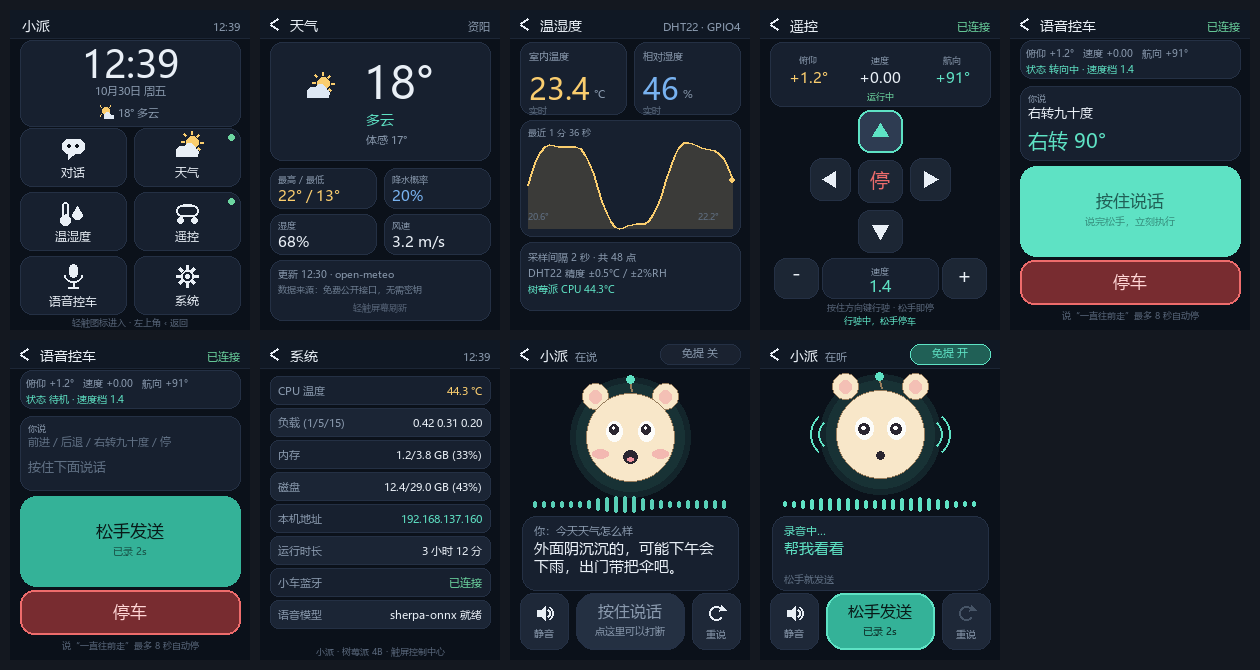
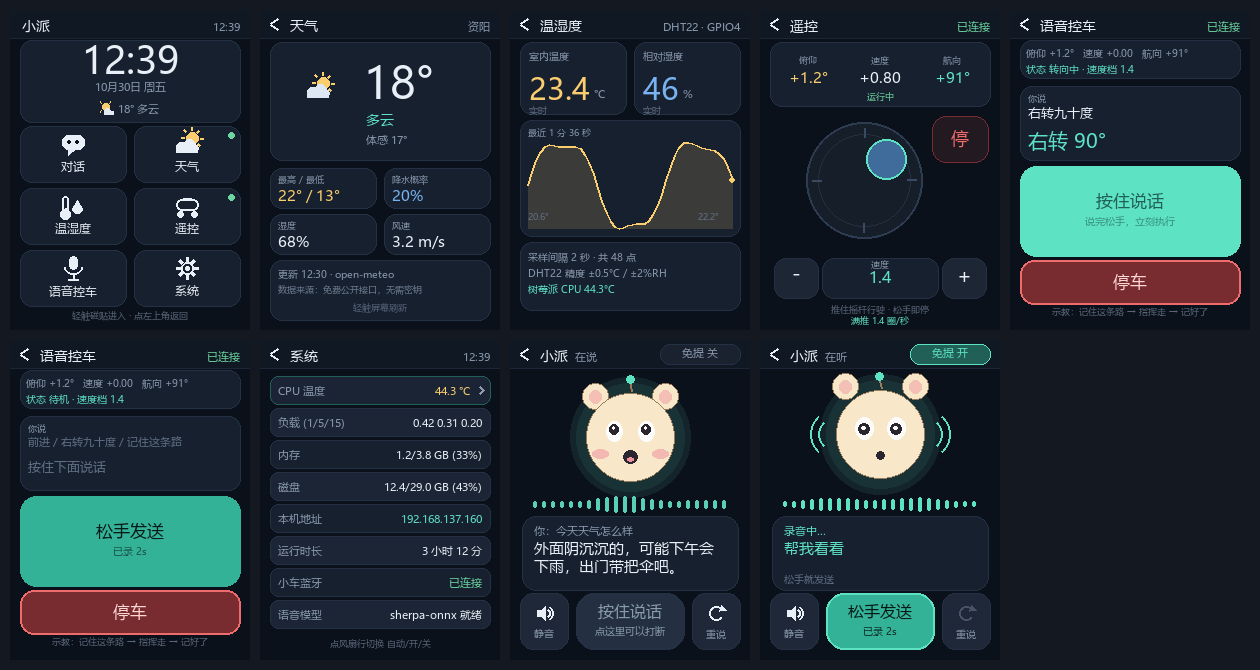
触摸屏遥控改成虚拟摇杆，和手机 APP 走同一套协议
问题：触摸屏和手机控同一条车，手感完全不同。
根因是两条路径的语义不同 —— 触摸屏走 [go]/[turn]（发一次一直跑、
转向是航向闭环转 90° 自己收手），手机走 [joystick]（摇杆模拟量、
20Hz 连续发、松手归零）。而且这块屏是单点触摸，十字键连
「上+左」都按不出来，天生做不出边走边转。

改法：把十字键换成虚拟摇杆，直接下发 [joystick,0,LV,0,RH]，
和手机 APP 一模一样的包，手感天然一致。

hubui.py
- 新增 JOY_C/JOY_R/JOY_KNOB/JOY_MAX、joy_norm()（超界按圆周投影，
  斜推不会得到 1.41 倍幅度）
- render_drive 画底盘/刻度/摇杆头，停车键挪到右上方
  （注意命名 BTN_HALT，BTN_STOP 已被语音页占用）
- hit_drive 改成判断圆心距离

hub.py
- DriveApp 重写：推多远离中心多快、一个拇指同时给速度和转向、
  松手先发一包回中（触发车端「松杆」清三级积分）再发 [stop]
- 拖动时指令变了立刻发（限 50ms），按住不动按 10Hz 续命，
  喂住车端 500ms 摇杆看门狗
- 连续推 12 秒自动停（抬起事件丢失的兜底）
- 转向符号可配：car.json 的 joy_turn_sign，默认 1.0，
  实车推右却左转就改 -1，离开页面再进即生效，不用重烧
- 触摸事件分发处把按下坐标挂到 app.down_xy，摇杆按在边缘能立刻给大量

其他
- car.json / car.py 增加 joy_turn_sign
- README 遥控页说明、协议说明.md 的 [joystick] 行同步更新
- preview_hub.py 的 drive 预览补上 jx/jy/joy

已部署到树莓派 ~/hub.py ~/hubui.py（备份 .bak_joy）并重启 hub.service

diff --git a/ai助手屏幕/pi_files/hub.py b/ai助手屏幕/pi_files/hub.py
@@ -1454,70 +1454,146 @@ class EnvApp(App):
 
 # ================================================================ 遥控页
 class DriveApp(App):
+    """遥控页：虚拟摇杆，下发的是和手机 APP 一模一样的 [joystick] 包。
+
+    为什么不用 [go]/[turn]：那套是给语音和示教用的「精确语义」——
+    [turn,90] 是航向闭环、转到位自己收手，天生按不出「按住一直转、边走边转」。
+    手机上那种手感来自摇杆：LV 给速度、RH 给差速，一个拇指同时给两个量，
+    松手一起归零。这里复制同一套协议，所以两边行为一致，不用再维护第二套手感。
+
+    另外这块屏是单点触摸，十字键连「上+左」都按不出来，摇杆是唯一能
+    在一个触点里同时表达速度与转向的形状。
+    """
+
     key = "drive"
     title = "遥控"
+
+    JOY_DEAD = 0.10        # 摇杆死区：归一化幅度小于它当中立，滤掉手指微抖
+    JOY_HZ = 10.0          # 下发频率。必须持续发 —— 车端摇杆模式看门狗是 500ms，
+                           # 手指按住不动（没有 move 事件）时也要靠这条定时包喂住
+    HOLD_MAX = 12.0        # 连续推的兜底：万一抬起事件丢了，车不能一直跑
 
     def __init__(self, hub):
         super().__init__(hub)
         self.press = None
         self.speed = 1.4
+        self.turn_sign = 1.0
         self.hint = ""
         self.t_press = 0.0
+        self.jx = 0.0
+        self.jy = 0.0
+        self.joy_on = False
+        self._t_send = 0.0
+        self._last = (0, 0)          # 上一次真正发出去的 (LV, RH)，用来判重
+        self.down_xy = None
 
     def enter(self):
         self.hub.cars.ensure()
-        self.speed = float(self.hub.cars.cfg.get("speed", 1.4))
+        cfg = self.hub.cars.cfg or {}
+        self.speed = float(cfg.get("speed", 1.4))
+        # 转向符号单独可调，实车标定用，不用改代码也不用重烧：
+        #   第一次推右，如果车往左转，把 car.json 里的 "joy_turn_sign" 改成 -1，
+        #   离开遥控页再点回来就生效（enter() 会重读配置）。
+        self.turn_sign = float(cfg.get("joy_turn_sign", 1.0))
         self.hint = ""
+        self.jx = self.jy = 0.0
+        self.joy_on = False
 
     def leave(self):
-        self.hub.cars.send("[stop]")
+        self._halt("")
+
+    def _halt(self, hint=""):
+        self.joy_on = False
+        self.jx = self.jy = 0.0
         self.press = None
-        self.hint = ""
+        try:
+            self.hub.cars.send("[joystick,0,0,0,0]")   # 先发一包回中：触发车端
+                                                       # 「松杆」边沿，它会顺手清掉三个积分
+            self.hub.cars.send("[stop]")
+        except Exception:                              # noqa: BLE001
+            pass
+        if hint:
+            self.hint = hint
+
+    def _dead(self):
+        if abs(self.jx) < self.JOY_DEAD:
+            self.jx = 0.0
+        if abs(self.jy) < self.JOY_DEAD:
+            self.jy = 0.0
+
+    def _cmd(self):
+        """当前摇杆量 → 车端协议的两个整数。
+
+        车端把 LV 除以 25 当目标速度（圈/秒）、把 RH 除以 5 当差速目标，
+        所以这里乘回去：满推 = 速度档的值，左右满推 = ±100。
+        """
+        lv = int(round(-self.jy * self.speed * 25.0))
+        rh = int(round(self.jx * 100.0 * self.turn_sign))
+        return max(-100, min(100, lv)), max(-100, min(100, rh))
+
+    def _emit(self, force=False, min_gap=0.0):
+        now = time.monotonic()
+        if not force and now - self._t_send < min_gap:
+            return
+        self._t_send = now
+        lv, rh = self._cmd()
+        self._last = (lv, rh)
+        self.hub.cars.send(f"[joystick,0,{lv},0,{rh}]")
+
+    def on_move(self, x, y):
+        if not self.joy_on:
+            return
+        self.jx, self.jy = hubui.joy_norm(x, y)
+        self._dead()
+        # 拖动时只要指令变了就立刻发（最快 20Hz），否则摇杆会有一拍黏滞感；
+        # 但发得太密会挤占 9600 波特的带宽（遥测还要 10Hz），所以限 50ms 一次。
+        if self._cmd() != self._last:
+            self._emit(min_gap=0.05)
 
     def tick(self, now):
-        """按住行驶的超时兜底：万一抬起事件丢了（触摸屏偶发），车不能一直跑"""
-        if self.press in ("up", "down") and now - self.t_press > 6.0:
-            self.hub.cars.send("[stop]")
-            self.press = None
-            self.hint = "连续走了 6 秒，已自动停车"
-
-    def hit(self, x, y):
-        return hubui.hit_drive(x, y)
+        if not self.joy_on:
+            return
+        if now - self.t_press > self.HOLD_MAX:
+            self._halt(f"连续推了 {self.HOLD_MAX:.0f} 秒，已自动停车，需重新推")
+            return
+        # 手指按住不动时没有 move 事件，仍要按 10Hz 续命 ——
+        # 车端摇杆看门狗是 500ms，断包就停车
+        self._emit(min_gap=1.0 / self.JOY_HZ)
 
     def on_down(self, region):
         self.press = region
         self.t_press = time.monotonic()
         cars = self.hub.cars
-        if cars.link is None:
-            self.hint = "车没连上，先给车上电"
+
+        if region == "stop":
+            self._halt("已停车")
             return
-        if region == "up":
-            cars.send(f"[go,{self.speed:.2f},0]")
-            self.hint = "行驶中 · 松手停车"
-        elif region == "down":
-            cars.send(f"[go,{-self.speed:.2f},0]")
-            self.hint = "倒车中 · 松手停车"
-        elif region == "left":
-            cars.send("[turn,-90]")
-            self.hint = "左转 90° · 车自己转到位"
-        elif region == "right":
-            cars.send("[turn,90]")
-            self.hint = "右转 90° · 车自己转到位"
-        elif region == "stop":
-            cars.send("[stop]")
-            self.hint = "已停车"
-        elif region in ("faster", "slower"):
+        if region in ("faster", "slower"):
             step = float(cars.cfg.get("speed_step", 0.4))
             lo = float(cars.cfg.get("speed_min", 0.5))
             hi = float(cars.cfg.get("speed_max", 3.2))
             self.speed = max(lo, min(hi, self.speed + (step if region == "faster" else -step)))
-            self.hint = f"速度 {self.speed:.1f}"
+            self.hint = f"满推 {self.speed:.1f} 圈/秒"
+            if self.joy_on:
+                self._emit(force=True)
+            return
+        if cars.link is None:
+            self.hint = "车没连上，先给车上电"
+            return
+        if region == "joy":
+            self.joy_on = True
+            xy = self.down_xy or hubui.JOY_C
+            self.jx, self.jy = hubui.joy_norm(xy[0], xy[1])
+            self._dead()
+            self._emit(force=True)
+            self.hint = "推住行驶 · 松手即停"
+
+    def hit(self, x, y):
+        return hubui.hit_drive(x, y)
 
     def on_up(self, region, x, y, dur):
-        self.press = None
-        if region in ("up", "down"):
-            self.hub.cars.send("[stop]")
-            self.hint = "已停"
+        if self.joy_on:
+            self._halt("已停")
 
     def _tel(self):
         return self.hub.cars.snap()
@@ -1530,13 +1606,15 @@ class DriveApp(App):
             car_lost=cars.status == "lost",
             angle=f"{s['angle']:+.1f}°", speed=f"{s['speed']:+.2f}",
             yaw=f"{s['yaw']:+.0f}°", flags=s.get("flags", 0),
-            spd=f"{self.speed:.1f}", press=self.press, hint=self.hint))
+            spd=f"{self.speed:.1f}", press=self.press, hint=self.hint,
+            jx=self.jx, jy=self.jy, joy=self.joy_on))
 
     def sig(self, now):
         s = self._tel()
         return (int(s["angle"] * 10), int(s["speed"] * 100), int(s["yaw"]),
                 s.get("flags", 0), self.hub.cars.status, f"{self.speed:.1f}",
-                self.press, self.hint)
+                self.press, self.hint,
+                int(self.jx * 20), int(self.jy * 20), self.joy_on)
 
 
 # ================================================================ 语音控车页
@@ -2117,6 +2195,10 @@ class Hub:
                         press = "@back"
                     else:
                         press = app.hit(ev.x, ev.y)
+                    # on_down 只拿到"哪个区域"，拿不到坐标。摇杆需要知道手指落在
+                    # 盘面哪个位置（按在边缘就该立刻给大的推杆量），所以在这里
+                    # 先把坐标挂到 app 上，需要的人自己取，不用的页面无视即可。
+                    app.down_xy = (ev.x, ev.y)
                     app.on_down(press)
                 elif ev.kind == "move":
                     app.on_move(ev.x, ev.y)

diff --git a/ai助手屏幕/pi_files/hubui.py b/ai助手屏幕/pi_files/hubui.py
@@ -361,29 +361,35 @@ def render_env(v):
 
 
 # ================================================================ 遥控
-DPAD = {
-    "up": (98, 100, 142, 142),
-    "down": (98, 200, 142, 242),
-    "left": (50, 148, 90, 190),
-    "right": (150, 148, 190, 190),
-    "stop": (98, 150, 142, 192),
-}
+# 十字键换成虚拟摇杆。原因：这块屏是单点触摸，一次只能按一个地方，
+# 「上 + 左」两个键同时按是不可能事件 —— 而手机 APP 的摇杆一个拇指就能
+# 同时给速度和转向。与其在触摸屏上做出一个「和手机不一样」的阉割版，
+# 不如直接照抄摇杆：同一个 [joystick,LH,LV,RH,RV] 协议，手感天然一致。
+JOY_C = (104, 170)                 # 摇杆圆心
+JOY_R = 58                         # 底盘半径
+JOY_KNOB = 20                      # 摇杆头半径
+JOY_MAX = 37                       # 摇杆头最大位移，对应归一化幅度 1.0
+BTN_HALT = (172, 106, 228, 152)    # 停车键，放在摇杆右上方，拇指够得到
 SPEED_MINUS = (14, 248, 58, 288)
 SPEED_PLUS = (182, 248, 226, 288)
 SPEED_BOX = (62, 248, 178, 288)
 
 
-def _arrow(d, box, direction, col):
-    cx, cy = (box[0] + box[2]) / 2, (box[1] + box[3]) / 2
-    s = 8
-    if direction == "up":
-        d.polygon([(cx, cy - s), (cx - s, cy + s * 0.7), (cx + s, cy + s * 0.7)], fill=col)
-    elif direction == "down":
-        d.polygon([(cx, cy + s), (cx - s, cy - s * 0.7), (cx + s, cy - s * 0.7)], fill=col)
-    elif direction == "left":
-        d.polygon([(cx - s, cy), (cx + s * 0.7, cy - s), (cx + s * 0.7, cy + s)], fill=col)
-    else:
-        d.polygon([(cx + s, cy), (cx - s * 0.7, cy - s), (cx - s * 0.7, cy + s)], fill=col)
+def joy_norm(x, y):
+    """触摸点 → 归一化摇杆量 (nx, ny)。
+
+    ny 用屏幕坐标系、向下为正，所以「上推 = ny 为负 = 前进」，转换在 hub.py 里做。
+    超出底盘半径的按圆周投影：方向不变、幅度封顶 1.0，
+    否则斜着推会得到 1.41 倍幅度，手感会「对角线比直线更冲」。
+    """
+    dx, dy = x - JOY_C[0], y - JOY_C[1]
+    if dx * dx + dy * dy < 4.0:
+        return 0.0, 0.0
+    nx, ny = dx / JOY_MAX, dy / JOY_MAX
+    m = math.hypot(nx, ny)
+    if m > 1.0:
+        nx, ny = nx / m, ny / m
+    return nx, ny
 
 
 def render_drive(v):
@@ -412,16 +418,35 @@ def render_drive(v):
     center_text(d, 120, 87, tag, font(9), tcol)
 
     press = getattr(v, "press", None)
-    for name, box in DPAD.items():
-        on = press == name
-        fill = (46, 60, 82) if on else (28, 38, 52)
-        edge = ACCENT if on else CARD_EDGE
-        pill(d, box, fill, outline=edge, radius=12, width=2 if on else 1)
-        if name == "stop":
-            center_text(d, (box[0] + box[2]) / 2, (box[1] + box[3]) / 2, "停",
-                        font(20), RED if not on else (255, 200, 200))
-        else:
-            _arrow(d, box, name, ACCENT if on else TEXT)
+    jx = float(getattr(v, "jx", 0.0))
+    jy = float(getattr(v, "jy", 0.0))
+    joy = bool(getattr(v, "joy", False))
+    cx, cy = JOY_C
+
+    # 底盘 + 内圈 + 四向刻度
+    d.ellipse((cx - JOY_R, cy - JOY_R, cx + JOY_R, cy + JOY_R),
+              fill=(22, 30, 42), outline=(46, 60, 82), width=2)
+    d.ellipse((cx - JOY_R + 12, cy - JOY_R + 12, cx + JOY_R - 12, cy + JOY_R - 12),
+              outline=(36, 48, 64), width=1)
+    for gx, gy in ((0, -1), (0, 1), (-1, 0), (1, 0)):
+        d.line((cx + gx * (JOY_R - 6), cy + gy * (JOY_R - 6),
+                cx + gx * (JOY_R - 15), cy + gy * (JOY_R - 15)),
+               fill=(58, 74, 98), width=2)
+
+    # 摇杆头：跟着手指走，松手自动回中
+    kx, ky = cx + jx * JOY_MAX, cy + jy * JOY_MAX
+    d.ellipse((kx - JOY_KNOB, ky - JOY_KNOB, kx + JOY_KNOB, ky + JOY_KNOB),
+              fill=(64, 108, 156) if joy else (34, 46, 62),
+              outline=ACCENT if joy else (60, 76, 100), width=2)
+    if not joy:
+        center_text(d, kx, ky, "推", font(11), (118, 136, 160))
+
+    # 停车键
+    on = press == "stop"
+    pill(d, BTN_HALT, (72, 34, 40) if on else (34, 26, 32),
+         outline=RED if on else RED_D, radius=14, width=2 if on else 1)
+    center_text(d, (BTN_HALT[0] + BTN_HALT[2]) / 2, (BTN_HALT[1] + BTN_HALT[3]) / 2,
+                "停", font(18), (255, 200, 200) if on else RED)
 
     # 速度档
     for box, sign in ((SPEED_MINUS, "-"), (SPEED_PLUS, "+")):
@@ -432,15 +457,17 @@ def render_drive(v):
     center_text(d, 120, 255, "速度", font(9), MUTED)
     center_text(d, 120, 267, getattr(v, "spd", "1.4"), font(16), ACCENT)
 
-    center_text(d, 120, 300, "按住方向键行驶 · 松手即停", font(9), (88, 102, 122))
+    center_text(d, 120, 300, "推住摇杆行驶 · 松手即停", font(9), (88, 102, 122))
     center_text(d, 120, 311, getattr(v, "hint", ""), font(9), ACCENT)
     return img
 
 
 def hit_drive(x, y):
-    for name, box in DPAD.items():
-        if inside(box, x, y):
-            return name
+    if inside(BTN_HALT, x, y):
+        return "stop"
+    dx, dy = x - JOY_C[0], y - JOY_C[1]
+    if dx * dx + dy * dy <= (JOY_R + 12) ** 2:
+        return "joy"
     if inside(SPEED_MINUS, x, y):
         return "slower"
     if inside(SPEED_PLUS, x, y):

diff --git a/ai助手屏幕/pi_files/preview_hub.py b/ai助手屏幕/pi_files/preview_hub.py
@@ -60,8 +60,9 @@ def env():
 
 def drive():
     v = types.SimpleNamespace(car_ok=True, connecting=False, angle="+1.2°",
-                              speed="+0.00", yaw="+91°", flags=1, spd="1.4",
-                              press="up", hint="行驶中，松手停车")
+                              speed="+0.80", yaw="+91°", flags=1, spd="1.4",
+                              press=None, hint="满推 1.4 圈/秒",
+                              jx=0.62, jy=-0.55, joy=True)
     return hubui.render_drive(v)
 
 

diff --git a/麦克佛加喇叭/pi_files/car.py b/麦克佛加喇叭/pi_files/car.py
@@ -60,6 +60,7 @@ DEFAULT_CFG = {
     "speed_step": 0.4,
     "speed_min": 0.5,
     "speed_max": 3.2,
+    "joy_turn_sign": 1.0,     # 遥控页摇杆的左右符号：推右却往左转就改成 -1.0
     "drive_seconds": 2.0,     # 说"前进"默认走多久
     "hold_max": 8.0,          # 说"一直走"最多走多久，安全上限
     "turn_timeout": 12.0,     # 等车转完的最长时间。360° 约 6.5 秒，转得更大会自动放宽

diff --git a/ai助手屏幕/README.md b/ai助手屏幕/README.md
@@ -251,16 +251,27 @@ python3 hub.py --mute       # 静音启动
 
 ## 遥控页怎么用
 
+遥控页是一个**虚拟摇杆**，发的指令和手机 APP 完全一样
+（`[joystick,0,LV,0,RH]`，10Hz 连续发），所以两边手感一致。
+
 | 操作 | 效果 |
 |---|---|
-| 按住 ▲ | 前进，**松手立刻停** |
-| 按住 ▼ | 后退，松手停 |
-| 点 ◀ / ▶ | 左/右转 90°，由**车端闭环**转到位，不用一直按 |
+| 推住摇杆 | 往哪推就往哪走，**推多远离中心多快**（满推 = 速度档的值） |
+| 一边推一边偏 | 可以**边走边转**，和手机摇杆一样 |
+| 松手 | 摇杆回中，立刻停车（先发一包回中触发车端「松杆」，再发 `[stop]`） |
 | 点 停 | 立即停车 |
-| 点 − / + | 调速度（0.5～3.2，存在 `car.json` 的 `speed`） |
+| 点 − / + | 调满推速度（0.5～3.2，存在 `car.json` 的 `speed`） |
 
-**安全兜底**：按住前进/后退超过 6 秒会自动停车。触摸屏偶尔会丢"抬起"事件，
-没有这条兜底，车会一直往前跑。
+**为什么不是十字键**：这块屏是单点触摸，一次只能按一个地方，
+「上 + 左」两个键同时按是不可能事件 —— 十字键做不出「边走边转」。
+摇杆一个拇指就能同时给速度和转向。
+
+**转向反了怎么办**：第一次推右，如果车往左转，把 `car.json` 里的
+`"joy_turn_sign"` 改成 `-1`，离开遥控页再点回来就生效（不用重启、不用重烧固件）。
+
+**安全兜底**：连续推超过 12 秒会自动停车。触摸屏偶尔会丢"抬起"事件，
+没有这条兜底，车会一直往前跑。另外车端摇杆模式自带 500ms 看门狗：
+上位机不发包，车半秒内自己停。
 
 ## 语音控车页
 

diff --git a/树莓派智能桌宠与语音交互平衡车系统/平衡车代码/协议说明.md b/树莓派智能桌宠与语音交互平衡车系统/平衡车代码/协议说明.md
@@ -16,7 +16,7 @@
 | `[turn,角度]` | **相对**转向 | 正数右转，闭环在车上，转完自己停。`0` 等于取消。±360 限幅 |
 | `[stop]` | 停运动 | **不关平衡**，车继续站着。演示中途停下用这条 |
 | `[run,1]` / `[run,0]` | 远程启停平衡环 | 等同按 Key1。`[run,1]` 前必须把车扶正 |
-| `[joystick,LH,LV,RH,RV]` | 遥控器 | 调试用。500ms 收不到就自动停（失联保护） |
+| `[joystick,LH,LV,RH,RV]` | 遥控器 / 触摸屏摇杆 | `LV/25` = 目标速度（圈/秒），`RH/5` = 差速目标。500ms 收不到新包就自动停。手机 APP 和触摸屏遥控页都走这条 |
 | `[slider,名称,值]` | 在线调参 | 见文末参数表 |
 | `[plot,...]` | 蓝牙波形 | 默认关闭（`USE_PLOT=0`），开了会挤占遥测带宽 |
 
